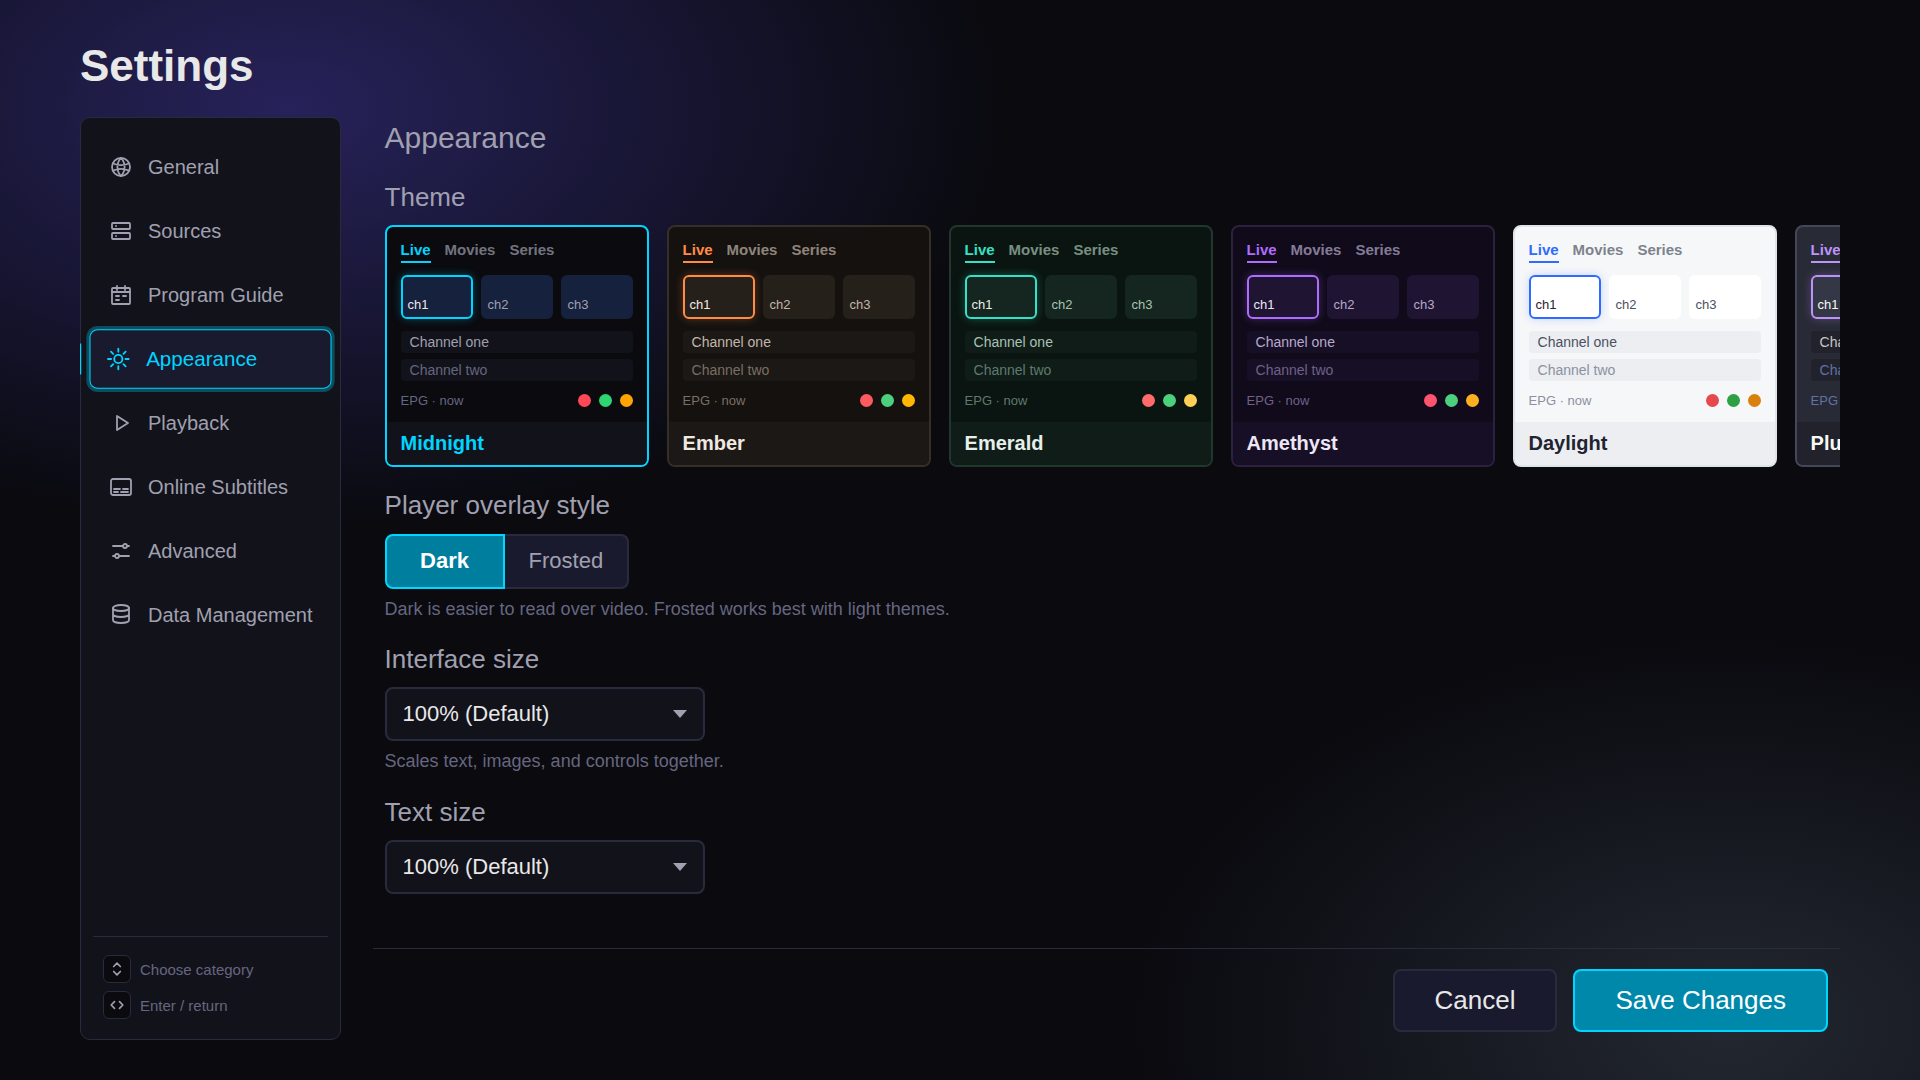
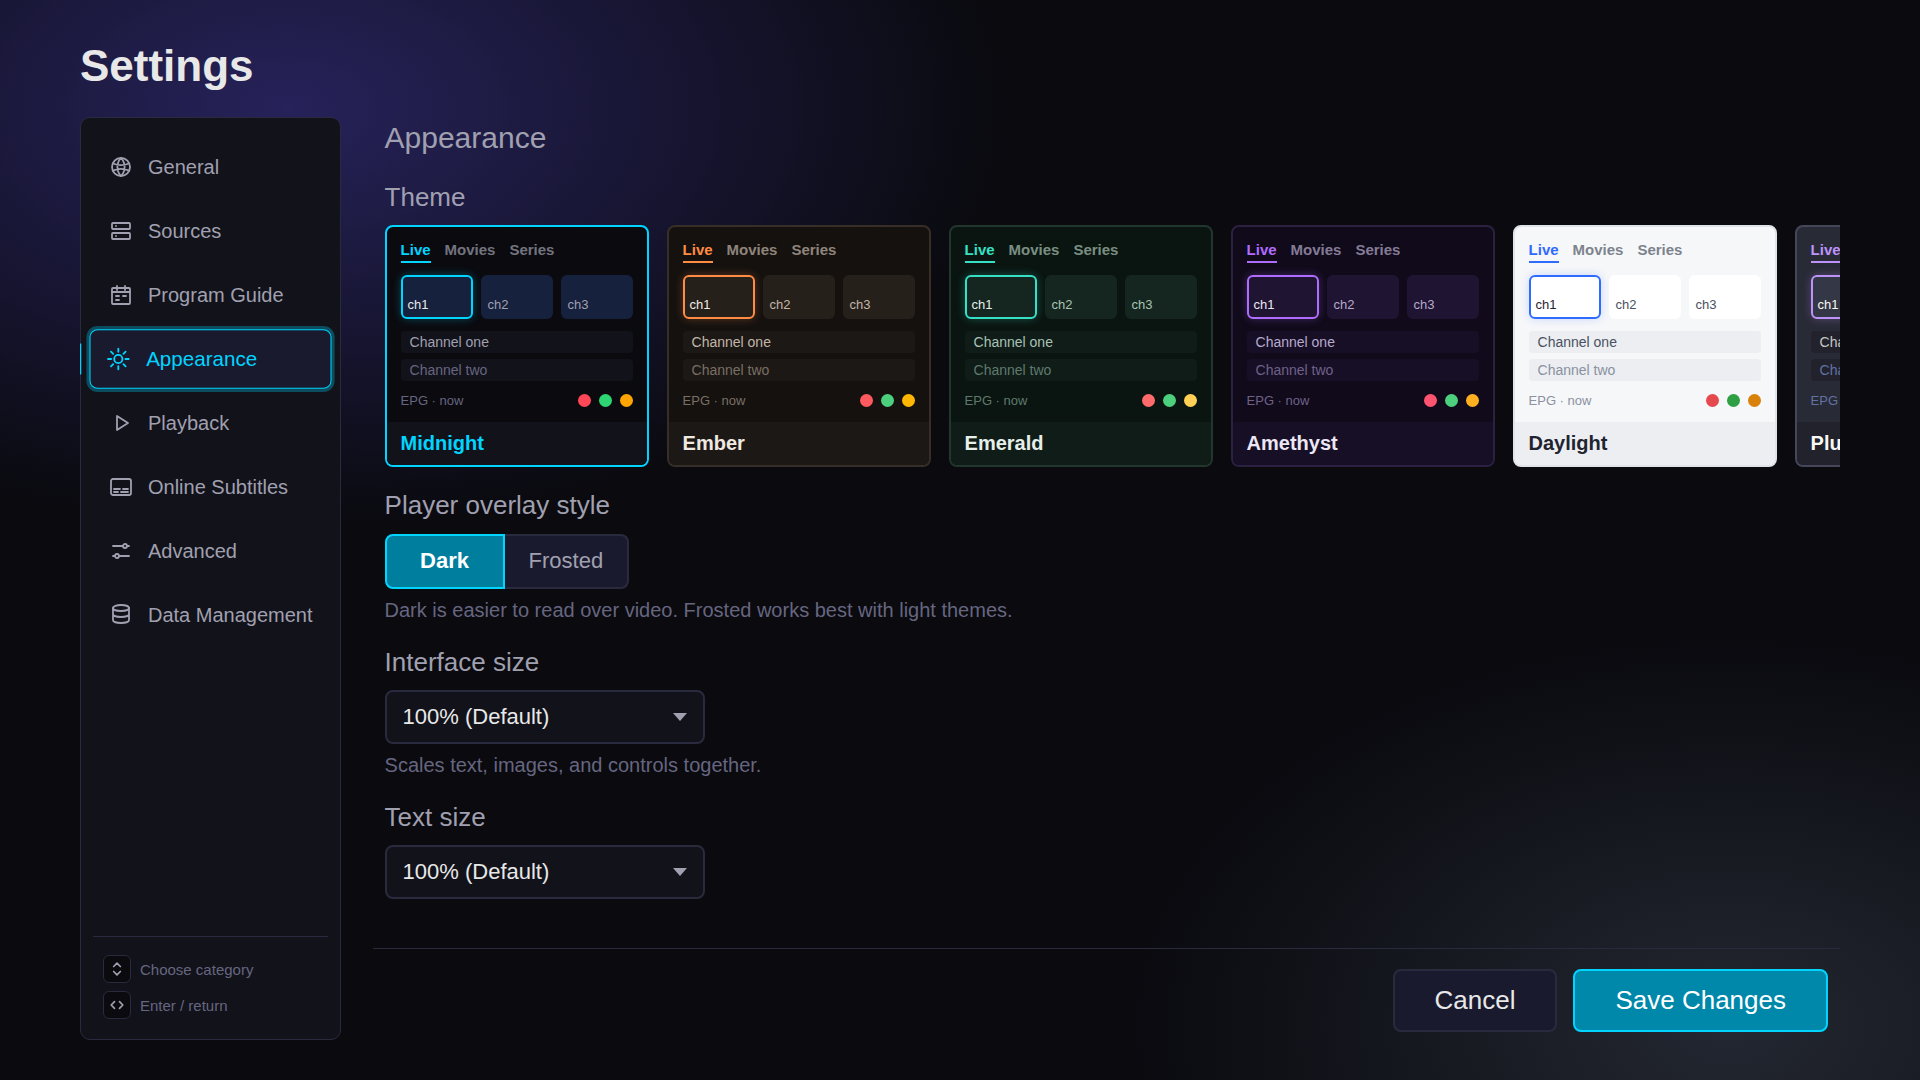
Raise Settings hints and the OSD NEXT label to 20px
LG recommends text of at least 20px at 1920x1080. Settings hints and
the player's NEXT label were 18px; they wrap or have room, so they
grow without moving anything else. The Settings, Appearance and player
store screenshots are regenerated.

Changed region(s): [[0.1875, 0.55, 0.5312, 0.8556]]

diff --git a/css/player.css b/css/player.css
@@ -451,7 +451,7 @@
 }
 
 .osd-next-label {
-  font-size: 18px;
+  font-size: 20px;
   font-weight: 700;
   color: var(--text-muted);
   text-transform: uppercase;

diff --git a/css/settings.css b/css/settings.css
@@ -241,7 +241,7 @@
 .settings-item-hint {
   margin-top: 8px;
   color: var(--text-muted);
-  font-size: 18px;
+  font-size: 20px;
   line-height: 1.35;
 }
 
